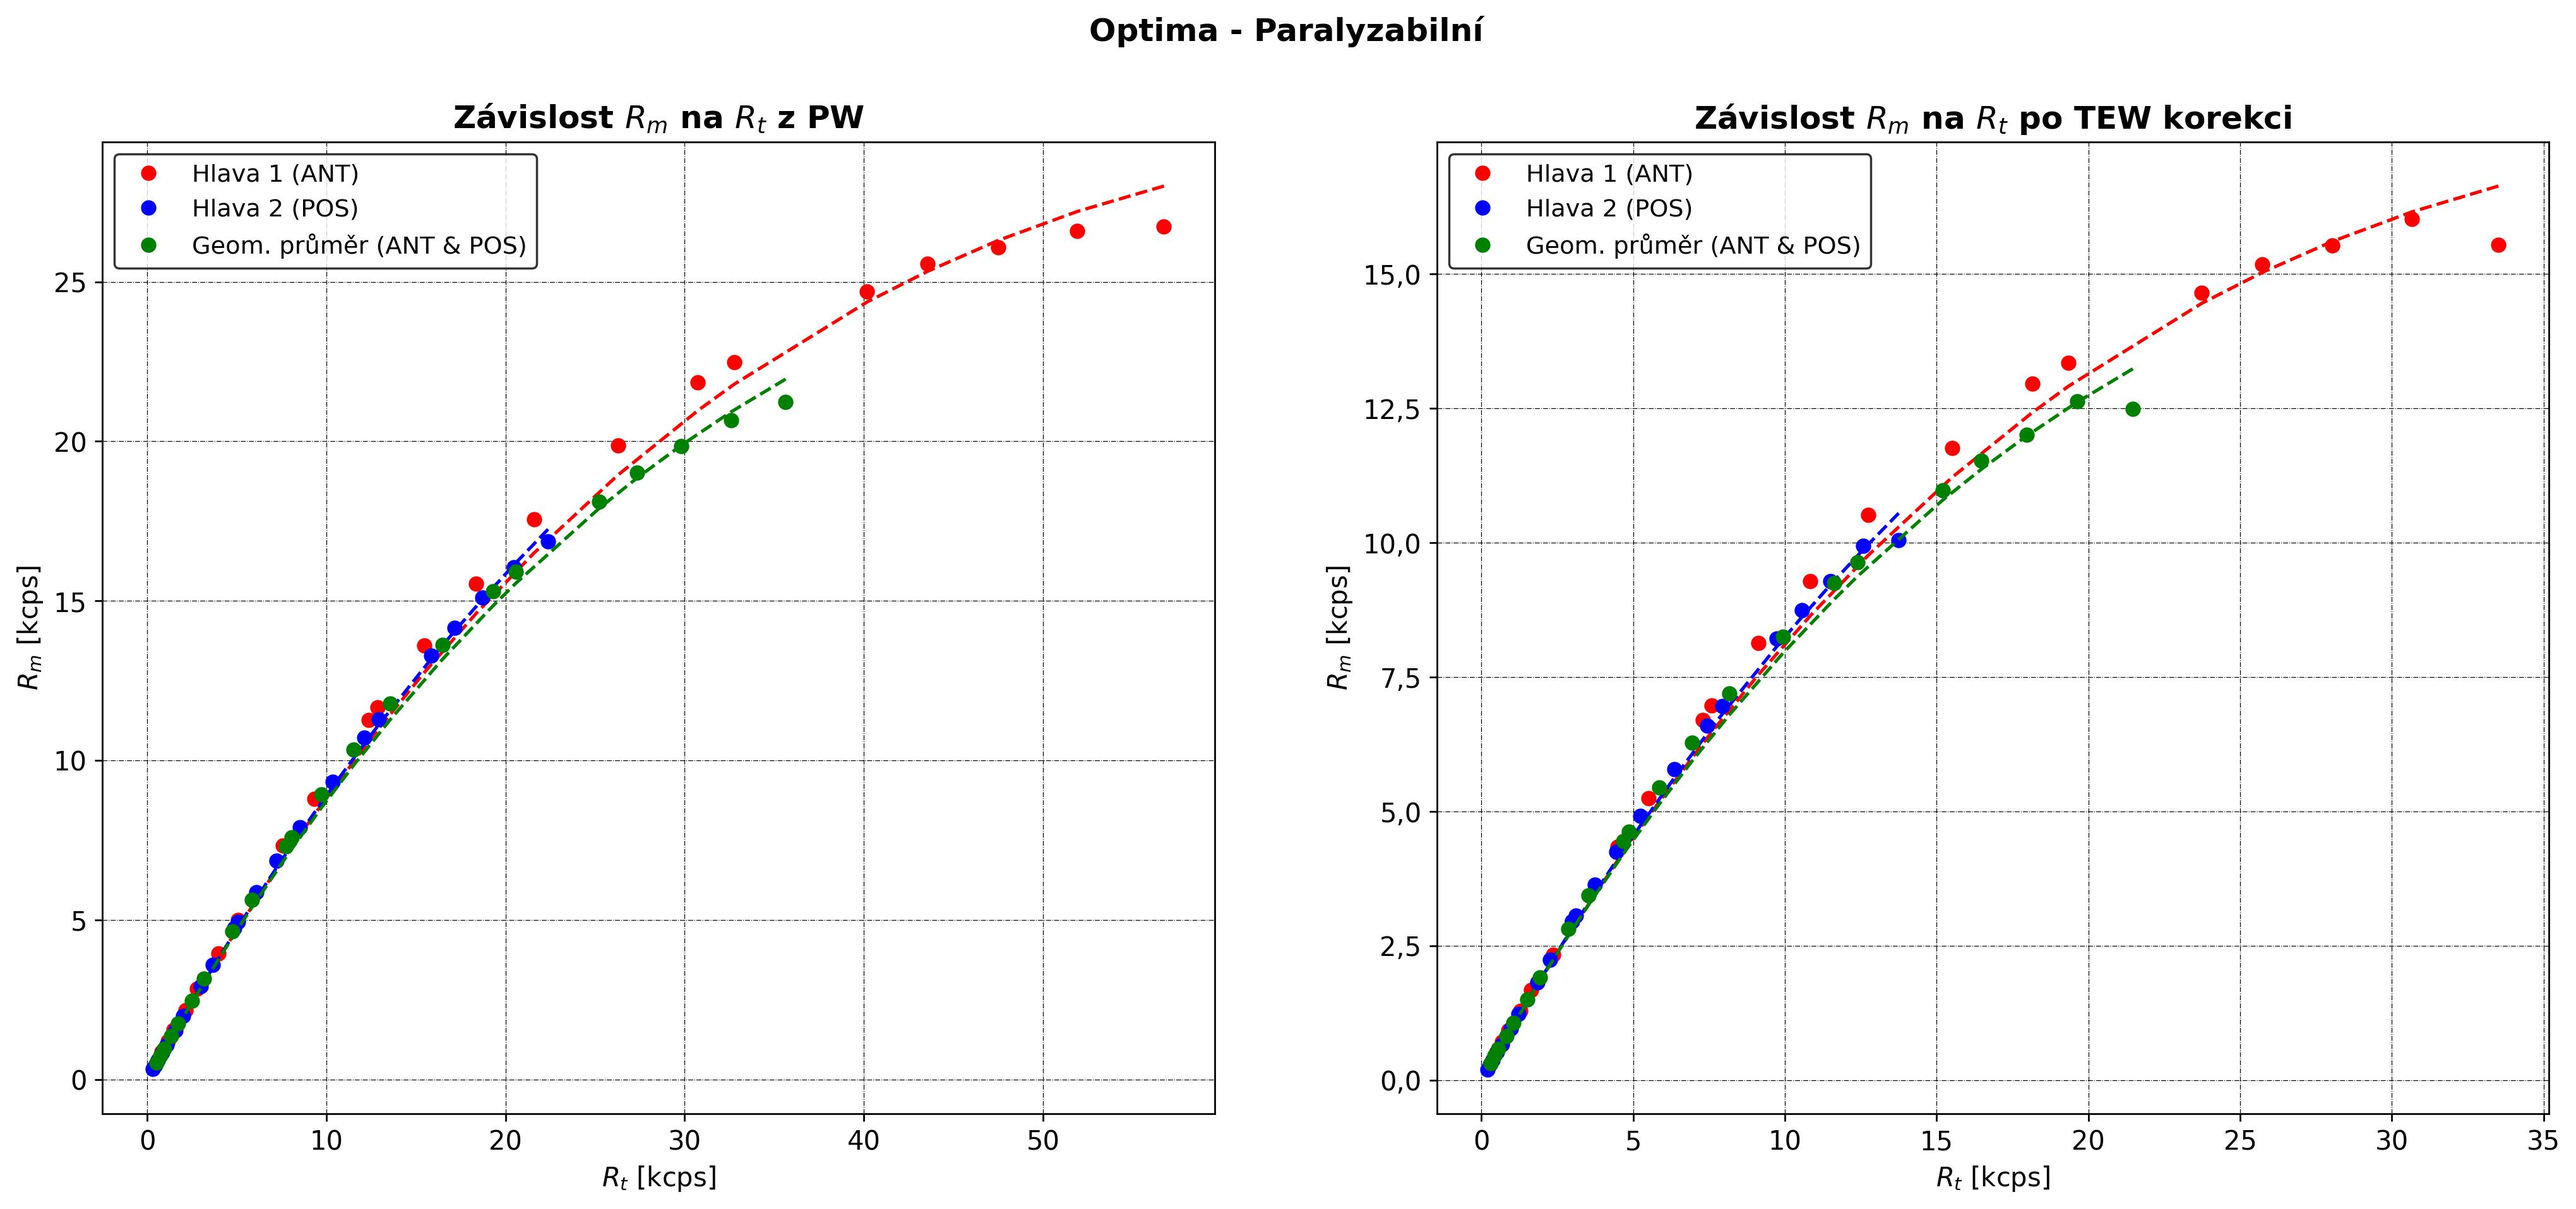
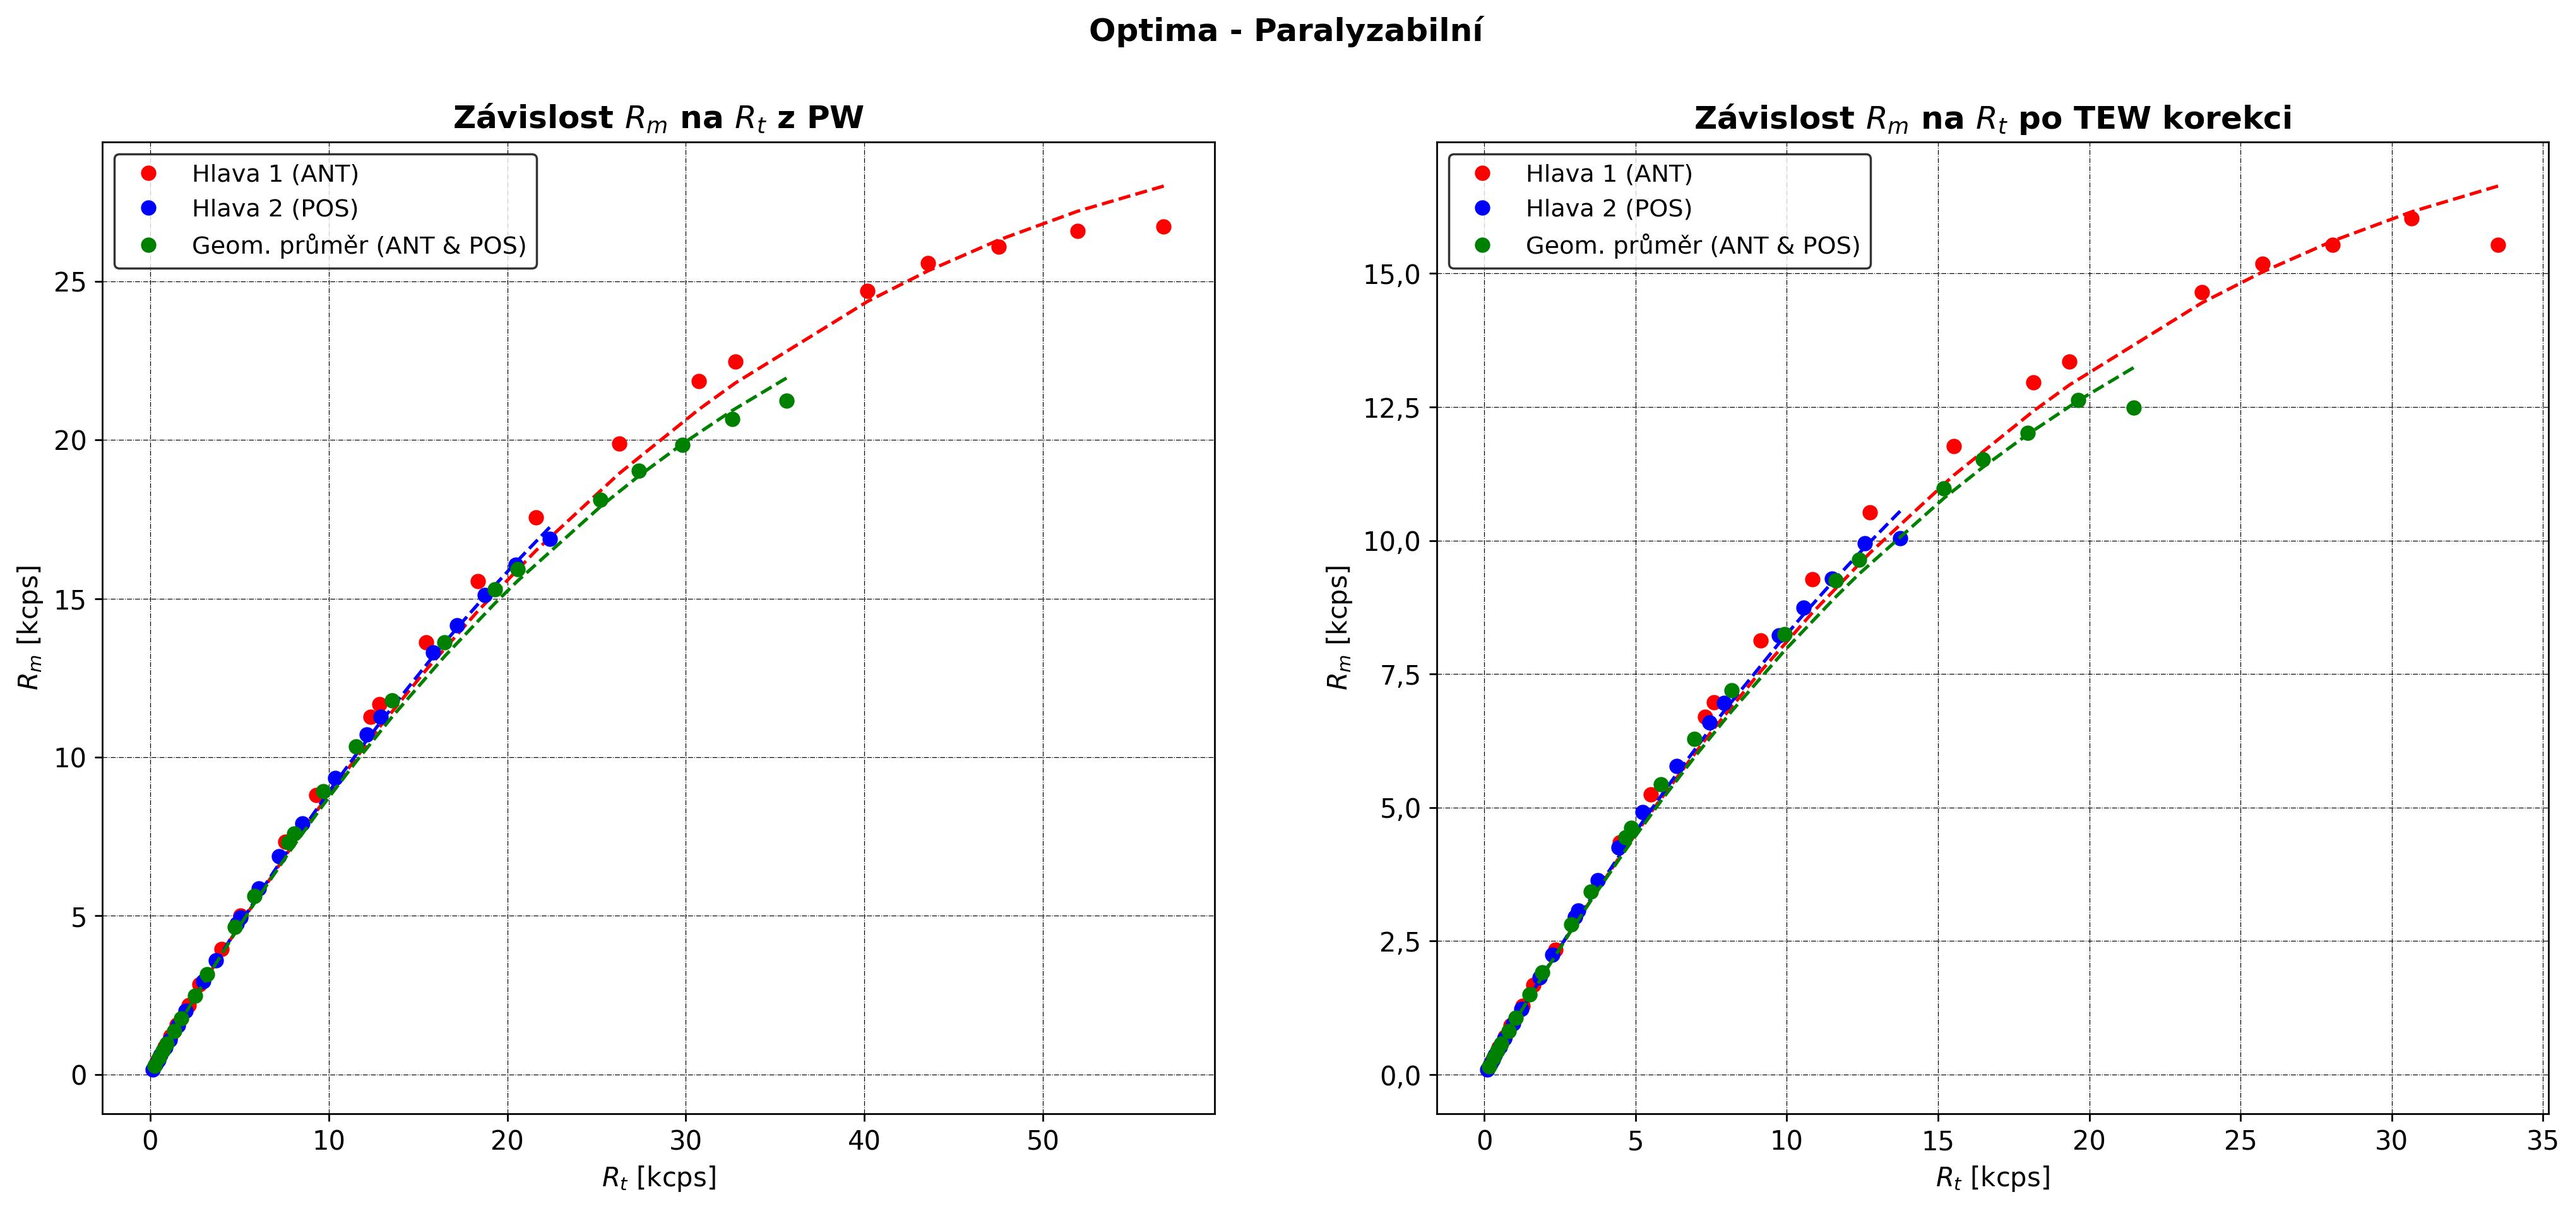
doplneni aktivit

diff --git a/vyber_dat_pro_fit.py b/vyber_dat_pro_fit.py
@@ -4,7 +4,7 @@ import pandas as pd
 import os
 
 def vyber_dat_pro_lin_fit(aktivity, count_rate):
-    aktivity_fit = [a for a in aktivity if a < 80]  # Filter elements manually
+    aktivity_fit = [a for a in aktivity if a < 50]  # Filter elements manually
     delka = len(aktivity_fit)
     count_rate_fit = count_rate[len(count_rate)-delka:]
 
